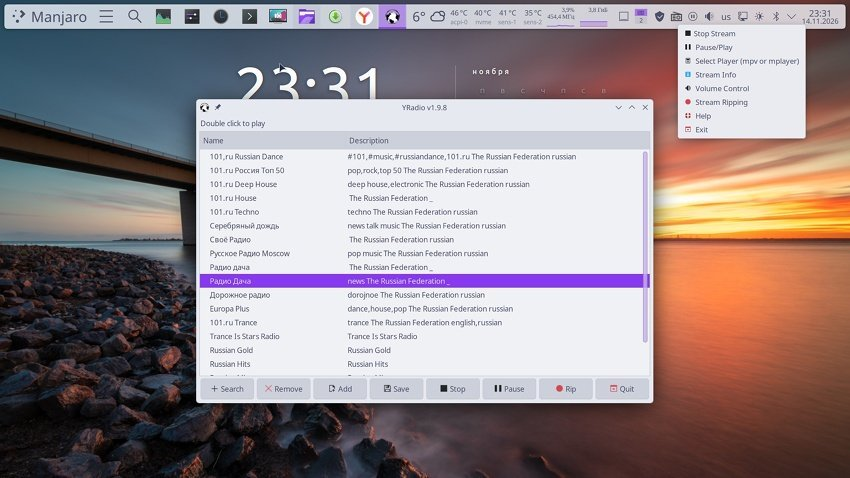
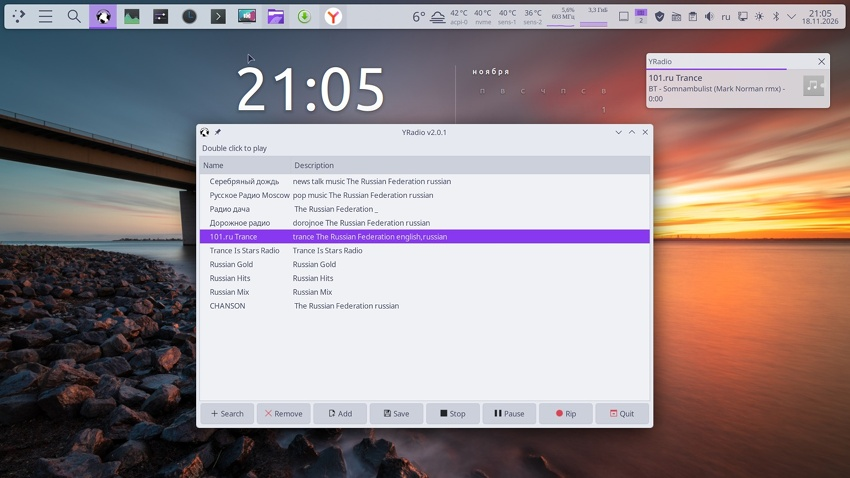
Update

Changed region(s): [[0.2141, 0.0293, 0.9788, 0.9372], [0.0306, 0.0, 0.52, 0.0586], [0.6424, 0.0293, 0.6729, 0.0586]]

diff --git a/README.md b/README.md
@@ -2,6 +2,8 @@
 
 <img width="850" height="478" alt="image" src="image.jpg" />
 
+<img width="850" height="478" alt="image" src="image.png" />
+
 
 - 2026-11-18 v2.0.1, native Wayland support: no X11-only parts any more.
 - (no yad --plug/--paned, no xdotool, no xmessage).
